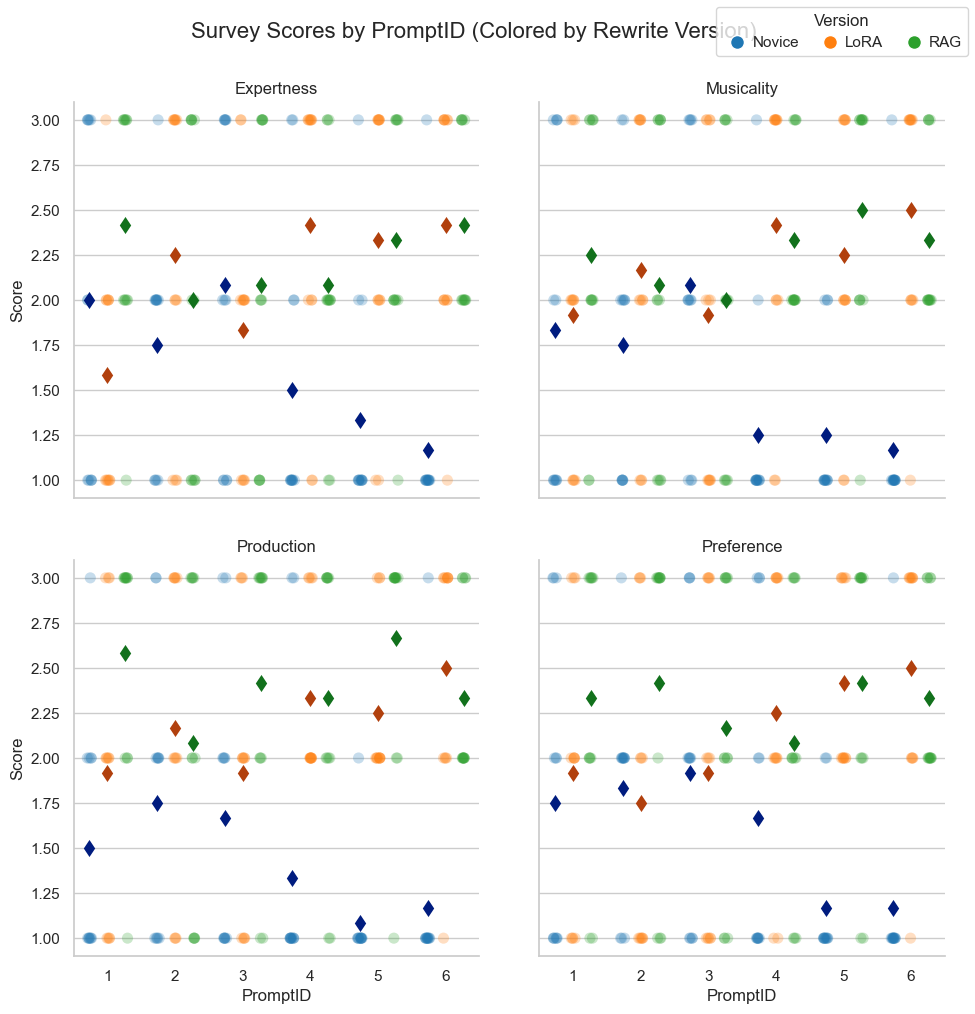
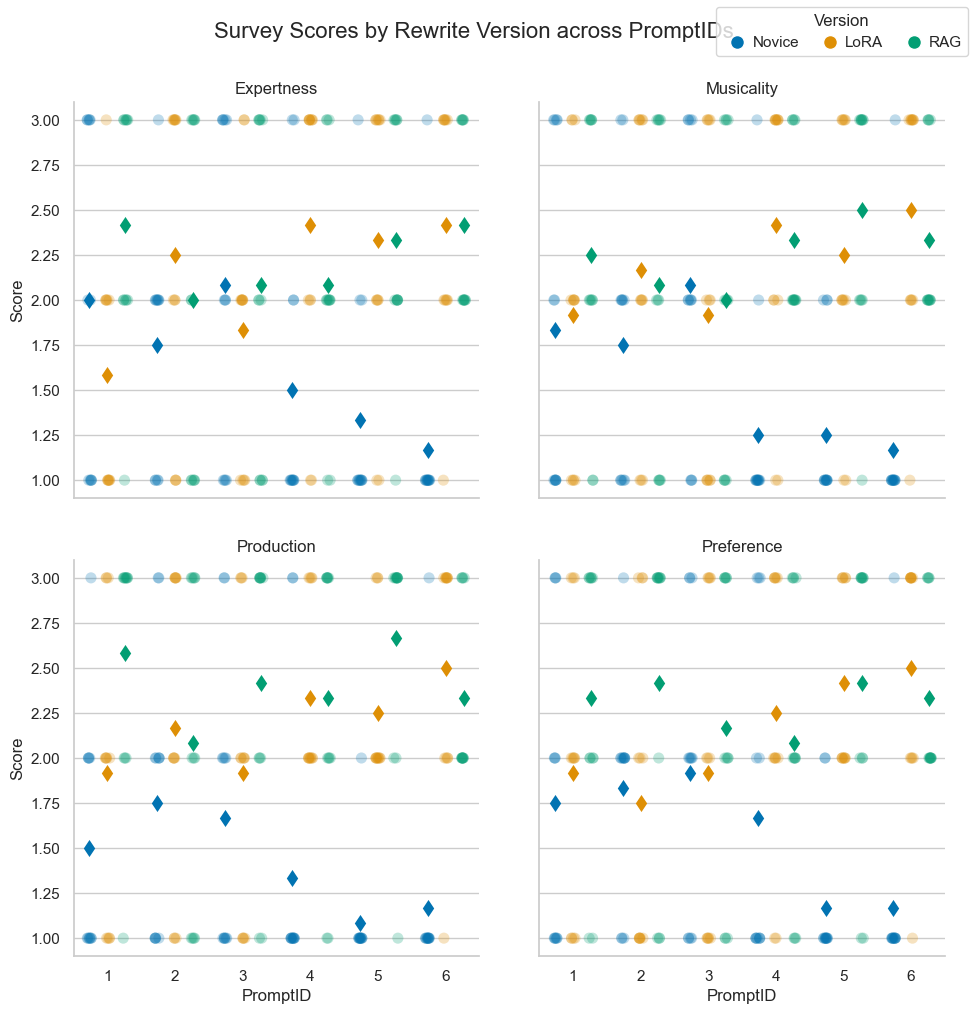
update plots to colorblind palette

diff --git a/analysis/stats_analysis.py b/analysis/stats_analysis.py
@@ -233,6 +233,7 @@ def pivot_all_dimensions(df, dimensions):
 def plot_strip_point_collapsed_facetgrid(df_long, save_path):
 
     sns.set_theme(style="whitegrid")
+    palette = sns.color_palette("colorblind", n_colors=3)
     
     # Specify the desired facet order.
     facet_order = ["expertness", "musicality", "production", "preference"]
@@ -247,7 +248,7 @@ def plot_strip_point_collapsed_facetgrid(df_long, save_path):
         sns.stripplot(
             data=sub_df,
             x="Version", y="Score", hue="Version",dodge=False,
-            jitter=True, alpha=0.25, zorder=1, palette="tab10", size=8,
+            jitter=True, alpha=0.25, zorder=1, palette=palette, size=8,
             ax=ax, legend=False
         )
         # Calculate dodge spacing based on the number of Versions.
@@ -256,7 +257,7 @@ def plot_strip_point_collapsed_facetgrid(df_long, save_path):
         sns.pointplot(
             data=sub_df,
             x="Version", y="Score", hue="Version",
-            dodge=False, palette="dark", errorbar=None,
+            dodge=False, palette=palette, errorbar=None,
             markers="d", markersize=6, linestyle="none",
             ax=ax, legend=False
         )
@@ -265,12 +266,12 @@ def plot_strip_point_collapsed_facetgrid(df_long, save_path):
     # Set y-axis limits (for scores ranging from 1 to 3) and axis labels.
     g.set(ylim=(0.9, 3.1))
     g.set_axis_labels("Version", "Score")
-    g.figure.suptitle("Survey Scores by Rewrite Version", fontsize=16)
+    g.figure.suptitle("Survey Scores across Rewrite Versions", fontsize=16)
     g.figure.subplots_adjust(top=0.9, left =0.1)
     
     # Create one combined legend for all facets.
     versions = ["Novice", "LoRA", "RAG"]
-    palette = sns.color_palette("tab10", n_colors=len(versions))
+    # palette = sns.color_palette("tab10", n_colors=len(versions))
     legend_handles = [
         Line2D([0], [0], marker='o', color='w', label=version,
                markerfacecolor=palette[i], markersize=10)
@@ -287,6 +288,7 @@ def plot_strip_point_collapsed_facetgrid(df_long, save_path):
 def plot_strip_point_by_dimension(df_long, save_path):
 
     sns.set_theme(style="whitegrid")
+    palette = sns.color_palette("colorblind", n_colors=6)
      # desired order for the Dimension facets
     facet_order = ["expertness", "musicality", "production", "preference"]
     
@@ -302,9 +304,9 @@ def plot_strip_point_by_dimension(df_long, save_path):
         sns.stripplot(
             data=sub_df,
             x="Version", y="Score", hue="PromptID",
-            dodge=True, jitter=True, alpha=0.25, zorder=1,
-            palette="tab10", size=8,
-            ax=ax, legend= False
+            dodge=True, jitter=True, alpha=0.25, zorder=1, size=8,
+            ax=ax, legend= False,
+            palette=palette
         )
         # Overlay the pointplot to show conditional means
         # (Using global df_long to compute the number of unique PromptIDs)
@@ -312,10 +314,10 @@ def plot_strip_point_by_dimension(df_long, save_path):
         sns.pointplot(
             data=sub_df,
             x="Version", y="Score", hue="PromptID",
-            dodge=dodge_val,
-            palette="dark", errorbar=None,
+            dodge=dodge_val, errorbar=None,
             markers="d", markersize=6, linestyle="none",
-            ax=ax, legend=False
+            ax=ax, legend=False, 
+            palette=palette
         )
         # Adjust legend placement for this facet (if a legend exists)
         # sns.move_legend(ax, loc="lower right", ncol=3, frameon=True, columnspacing=1, handletextpad=0)
@@ -323,10 +325,10 @@ def plot_strip_point_by_dimension(df_long, save_path):
     
     g.set(ylim=(0.9, 3.1))
     g.set_axis_labels("Version", "Score")
-    g.figure.suptitle("Survey Scores by Rewrite Version (Colored by PromptID)", fontsize=16)
+    g.figure.suptitle("Survey Scores by PromptID across Rewrite Versions", fontsize=16)
     g.figure.subplots_adjust(top=0.9, left = 0.1)
     ids = ["1", "2", "3", "4", "5", "6"]
-    palette = sns.color_palette("tab10", n_colors=len(ids))
+    # palette = sns.color_palette("tab10", n_colors=len(ids))
     legend_handles = [
         Line2D([0], [0], marker='o', color='w', label=promptid,
                markerfacecolor=palette[i], markersize=10)
@@ -342,7 +344,7 @@ def plot_strip_point_by_dimension(df_long, save_path):
 def plot_strip_point_by_promptID_facetgrid(df_long, save_path):
 
     sns.set_theme(style="whitegrid")
-
+    palette = sns.color_palette("colorblind", n_colors=3)
     # desired order for the Dimension facets
     facet_order = ["expertness", "musicality", "production", "preference"]
     
@@ -364,9 +366,9 @@ def plot_strip_point_by_promptID_facetgrid(df_long, save_path):
             jitter=True, 
             alpha=0.25, 
             zorder=1, 
-            palette="tab10", 
+            # palette="tab10", 
             size=8,
-            ax=ax, legend=False
+            ax=ax, legend=False, palette=palette
         )
         
         # Compute dodge value based on the number of unique Versions
@@ -379,24 +381,25 @@ def plot_strip_point_by_promptID_facetgrid(df_long, save_path):
             y="Score", 
             hue="Version",
             dodge=dodge_val,
-            palette="dark", 
+            # palette="dark", 
             errorbar=None, 
             markers="d", 
             markersize=6, 
             linestyle="none", 
             ax=ax,
-            legend=False
+            legend=False, 
+            palette=palette
         )
         ax.set_title(f"{dim.capitalize()}")
     
     # Set y-axis limits to suit scores in the 1 to 3 range
     g.set(ylim=(0.9, 3.1))
     g.set_axis_labels("PromptID", "Score")
-    g.figure.suptitle("Survey Scores by PromptID (Colored by Rewrite Version)", fontsize=16)
+    g.figure.suptitle("Survey Scores by Rewrite Version across PromptIDs", fontsize=16)
     g.figure.subplots_adjust(top=0.9, left=0.1)
 
     versions = ["Novice", "LoRA", "RAG"]
-    palette = sns.color_palette("tab10", n_colors=len(versions))
+    # palette = sns.color_palette("tab10", n_colors=len(versions))
     
     legend_handles = [
         Line2D([0], [0], marker='o', color='w', label=version,

diff --git a/analysis/audiobox_aggregate.py b/analysis/audiobox_aggregate.py
@@ -111,7 +111,8 @@ df_long["Score"] = pd.to_numeric(df_long["Score"])
 
 def plot_metrics_by_promptid_facetgrid(df_long, save_path):
     sns.set_theme(style="whitegrid")
-
+    # Use a colorblind friendly palette for the boxplots
+    palette = sns.color_palette("colorblind", n_colors=3)
     # Initialize the catplot with boxplot as base:
     g = sns.catplot(
         data=df_long,
@@ -126,7 +127,8 @@ def plot_metrics_by_promptid_facetgrid(df_long, save_path):
         medianprops={"color": "black", "linewidth": 2},
         dodge=True,
         sharey=True,  # use a consistent y-axis across subplots
-        legend=False
+        legend=False, 
+        palette=palette
     )
 
     # Overlay stripplots on each subplot:
@@ -142,17 +144,18 @@ def plot_metrics_by_promptid_facetgrid(df_long, save_path):
             alpha=0.6,
             size=6,
             ax=ax,
-            legend=False
+            legend=False, 
+            palette=palette
         )
         ax.set_title(f"{metric}")
 
     # Adjust y-axis and overall labels:
     g.set(ylim=(2, 10))
     g.set_axis_labels("PromptID", "Score")
-    g.figure.suptitle("Audiobox Scores by PromptID (Colored by Rewrite Version)", fontsize=16)
+    g.figure.suptitle("Audiobox Scores by Rewrite Version across PromptIDs", fontsize=16)
     g.figure.subplots_adjust(top=0.9)
     versions = ["Novice", "LoRA", "RAG"]
-    palette = sns.color_palette("tab10", n_colors=len(versions))
+    # palette = sns.color_palette("tab10", n_colors=len(versions))
     legend_handles = [
         Line2D([0], [0], marker='o', color='w', label=version,
                markerfacecolor=palette[i], markersize=10)
@@ -173,7 +176,7 @@ plot_metrics_by_promptid_facetgrid(df_long, "analysis/figures/audiobox_by_Prompt
 # marginalize promptID, Version across four score dimensions in facetgrid
 def plot_metrics_facetgrid(df_long, save_path):
     sns.set_theme(style="whitegrid")
-
+    palette = sns.color_palette("colorblind", n_colors=3)
     # Initialize the catplot with boxplot as base
     g = sns.catplot(
         data=df_long,
@@ -188,7 +191,8 @@ def plot_metrics_facetgrid(df_long, save_path):
         medianprops={"color": "black", "linewidth": 2},
         dodge=True,
         sharey=True,  # consistent Y-axis 
-        legend=False
+        legend=False,
+        palette=palette
     )
 
     # Overlay stripplots on each subplot
@@ -204,17 +208,18 @@ def plot_metrics_facetgrid(df_long, save_path):
             alpha=0.6,
             size=6,
             ax=ax,
-            legend = False
+            legend = False,
+            palette=palette
         )
         ax.set_title(f"{metric}")
 
     # Set Y-axis range
     g.set(ylim=(2, 10))
     g.set_axis_labels("Version", "Score")
-    g.figure.suptitle("Audiobox Scores by Rewrite Version", fontsize=16)
+    g.figure.suptitle("Audiobox Scores across Rewrite Versions", fontsize=16)
     g.figure.subplots_adjust(top=0.9)
     versions = ["Novice", "LoRA", "RAG"]
-    palette = sns.color_palette("tab10", n_colors=len(versions))
+    # palette = sns.color_palette("tab10", n_colors=len(versions))
     legend_handles = [
         Line2D([0], [0], marker='o', color='w', label=version,
                markerfacecolor=palette[i], markersize=10)
@@ -234,6 +239,7 @@ plot_metrics_facetgrid(df_long, "analysis/figures/audiobox_collapsed_plot")
 def plot_metrics_by_version_then_promptid_facetgrid(df_long, save_path):
 
     sns.set_theme(style="whitegrid")
+    palette = sns.color_palette("colorblind", n_colors=6)
     
     # Create a catplot with x as Version (aggregated) and facet by Metric.
     g = sns.catplot(
@@ -249,7 +255,8 @@ def plot_metrics_by_version_then_promptid_facetgrid(df_long, save_path):
         medianprops={"color": "black", "linewidth": 2},
         dodge=True,
         sharey=True,
-        legend=False
+        legend=False,
+        palette=palette
     )
     
     # Overlay a stripplot to show individual data points.
@@ -258,25 +265,26 @@ def plot_metrics_by_version_then_promptid_facetgrid(df_long, save_path):
         sns.stripplot(
             data=sub_df,
             x="Version", y="Score",
-            hue="PromptID",  # Color by PromptID.
+            hue="PromptID", 
             dodge=True,
             jitter=True,
             alpha=0.6,
             size=6,
             ax=ax,
-            legend=False
+            legend=False,
+            palette=palette
         )
         ax.set_title(f"{metric}")
     
     # Adjust y-axis and overall labels.
     g.set(ylim=(2, 10))
     g.set_axis_labels("Version", "Score")
-    g.figure.suptitle("Audiobox Scores by Rewrite Version (Colored by PromptID)", fontsize=16)
+    g.figure.suptitle("Audiobox Scores by PromptID across Rewrite Versions", fontsize=16)
     g.figure.subplots_adjust(top=0.9)
     
     # Create one combined legend for the PromptID groups using dot markers.
     prompt_ids = sorted(df_long["PromptID"].unique())  # Assumes six unique prompt IDs.
-    palette = sns.color_palette("tab10", n_colors=len(prompt_ids))
+    # palette = sns.color_palette("tab10", n_colors=len(prompt_ids))
     legend_handles = [
         Line2D([0], [0], marker='o', color='w', label=pid,
                markerfacecolor=palette[i], markersize=10)
@@ -344,6 +352,7 @@ for i, score in enumerate(score_types):
     if i == 0:
         axes[i].set_ylabel('Score')
 
-plt.suptitle('Randomness of Diffusion Process Prompt 5 Scores by Rewrite Version', fontsize=16)
+plt.suptitle('Randomness of Diffusion Process PromptID:5 Scores across Rewrite Versions', fontsize=16)
 plt.tight_layout(rect=[0, 0.03, 1, 0.95])
+plt.style.use('tableau-colorblind10')
 plt.show()
